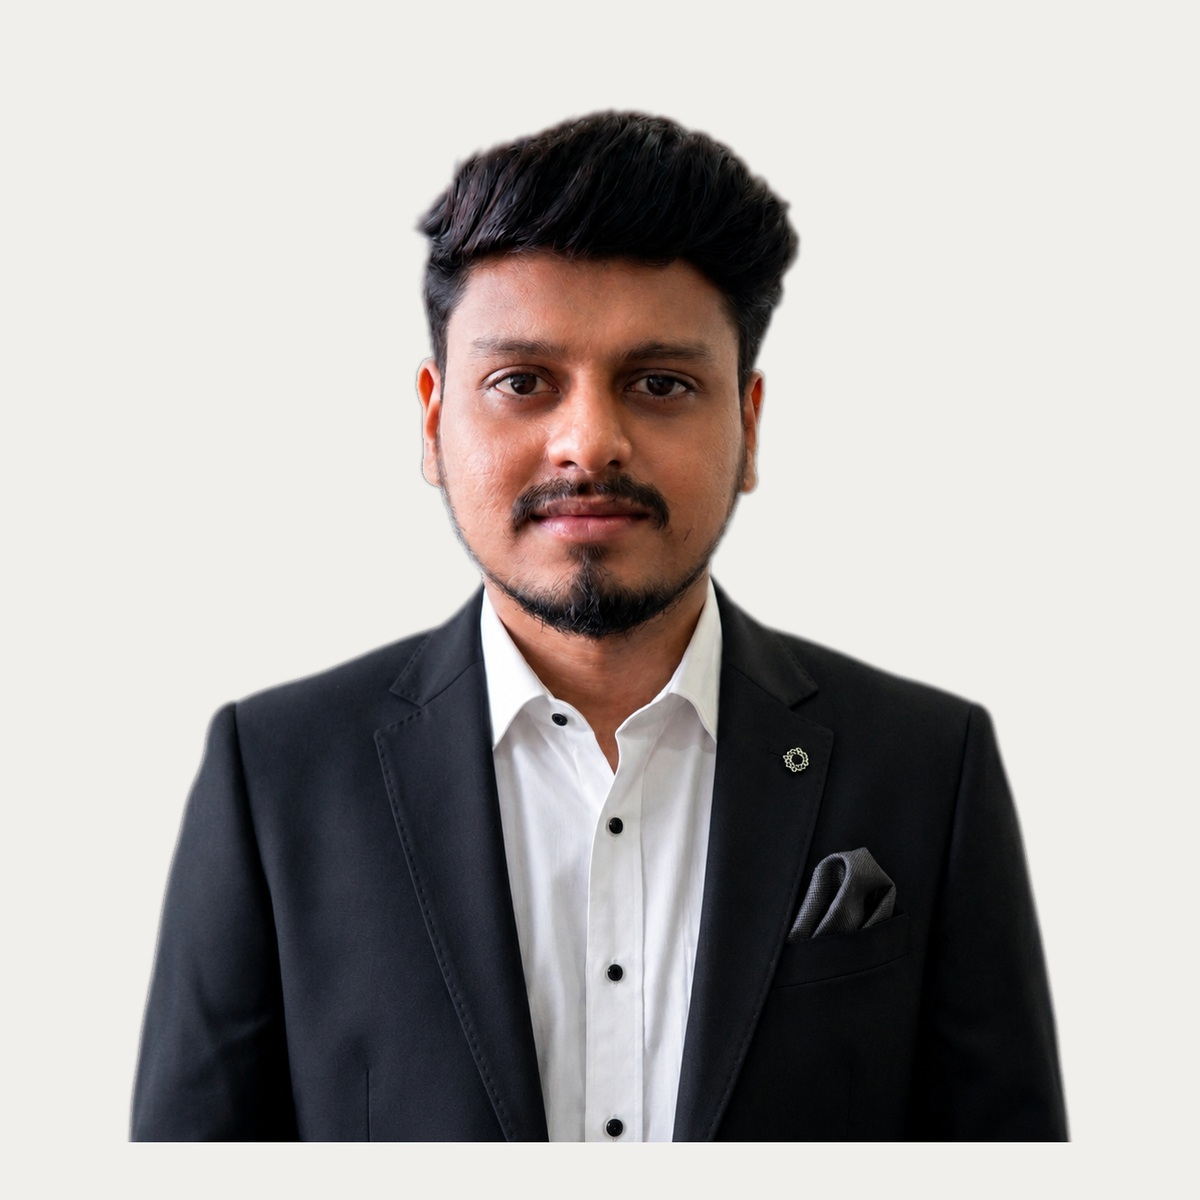
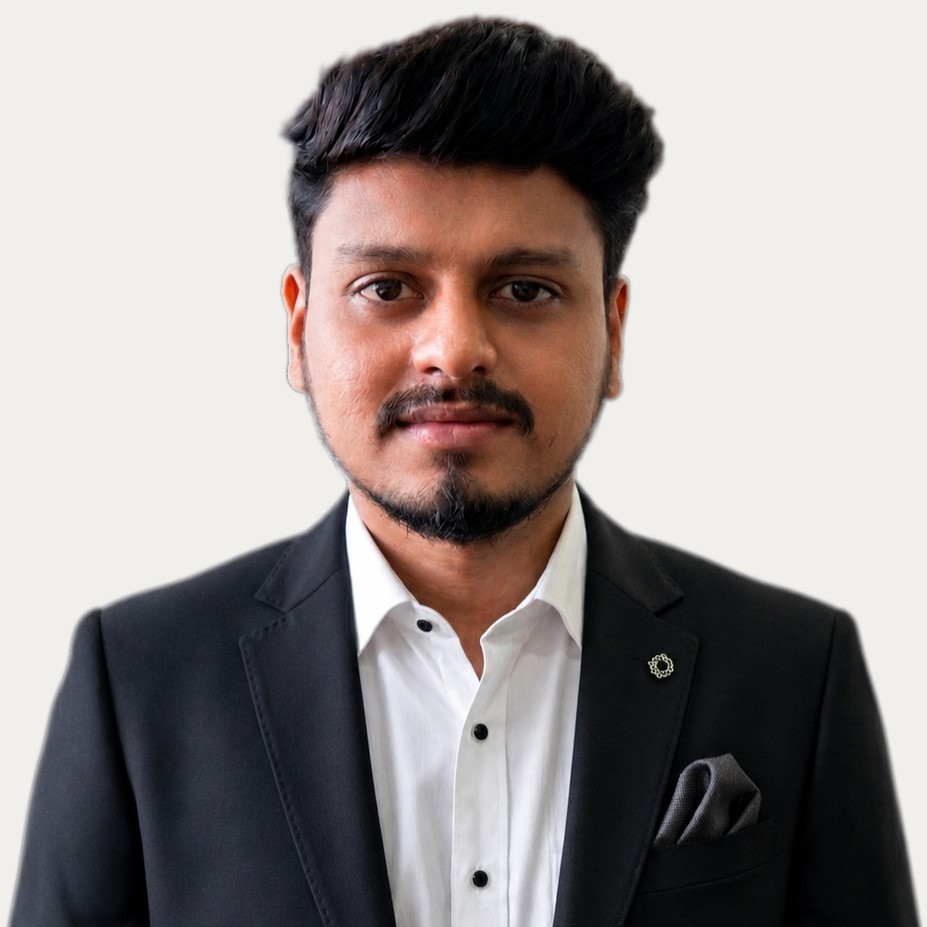
Update the three team photos to their re-cropped versions
dhatri.jpg, nithisha.jpg and shaaz.jpg were replaced with different
exports — still square 1:1 but at smaller, uneven resolutions (645,
801 and 927px respectively, down from the uniform 1200x1200 the previous
commit shipped). Updated the width/height attributes on all six <img>
tags (three photos across /our-team/ and the home page section) to match
each file's actual size. No visual distortion risk either way — matching
1:1 aspect ratios render identically through object-cover regardless of
source resolution — but the attributes should describe the real asset.

Verified: typecheck clean, build clean, 27 tests pass. All three assets
and both pages return 200.

diff --git a/components/sections/OurTeam.tsx b/components/sections/OurTeam.tsx
@@ -71,8 +71,8 @@ export default function OurTeam() {
                 <img
                   src="/dhatri.jpg"
                   alt="Dhatri, part of the Grow Spark Consulting team"
-                  width={1200}
-                  height={1200}
+                  width={645}
+                  height={645}
                   loading="lazy"
                   decoding="async"
                   className="w-full h-full object-cover object-top"
@@ -104,8 +104,8 @@ export default function OurTeam() {
                 <img
                   src="/nithisha.jpg"
                   alt="Nithisha, part of the Grow Spark Consulting team"
-                  width={1200}
-                  height={1200}
+                  width={801}
+                  height={801}
                   loading="lazy"
                   decoding="async"
                   className="w-full h-full object-cover object-top"
@@ -137,8 +137,8 @@ export default function OurTeam() {
                 <img
                   src="/shaaz.jpg"
                   alt="Shaaz, part of the Grow Spark Consulting team"
-                  width={1200}
-                  height={1200}
+                  width={927}
+                  height={927}
                   loading="lazy"
                   decoding="async"
                   className="w-full h-full object-cover object-top"

diff --git a/app/(site)/our-team/page.tsx b/app/(site)/our-team/page.tsx
@@ -148,8 +148,8 @@ export default function Page() {
                 <img
                   src="/dhatri.jpg"
                   alt="Dhatri, part of the Grow Spark Consulting team"
-                  width={1200}
-                  height={1200}
+                  width={645}
+                  height={645}
                   loading="lazy"
                   decoding="async"
                   className="w-full h-full object-cover object-top"
@@ -181,8 +181,8 @@ export default function Page() {
                 <img
                   src="/nithisha.jpg"
                   alt="Nithisha, part of the Grow Spark Consulting team"
-                  width={1200}
-                  height={1200}
+                  width={801}
+                  height={801}
                   loading="lazy"
                   decoding="async"
                   className="w-full h-full object-cover object-top"
@@ -214,8 +214,8 @@ export default function Page() {
                 <img
                   src="/shaaz.jpg"
                   alt="Shaaz, part of the Grow Spark Consulting team"
-                  width={1200}
-                  height={1200}
+                  width={927}
+                  height={927}
                   loading="lazy"
                   decoding="async"
                   className="w-full h-full object-cover object-top"
